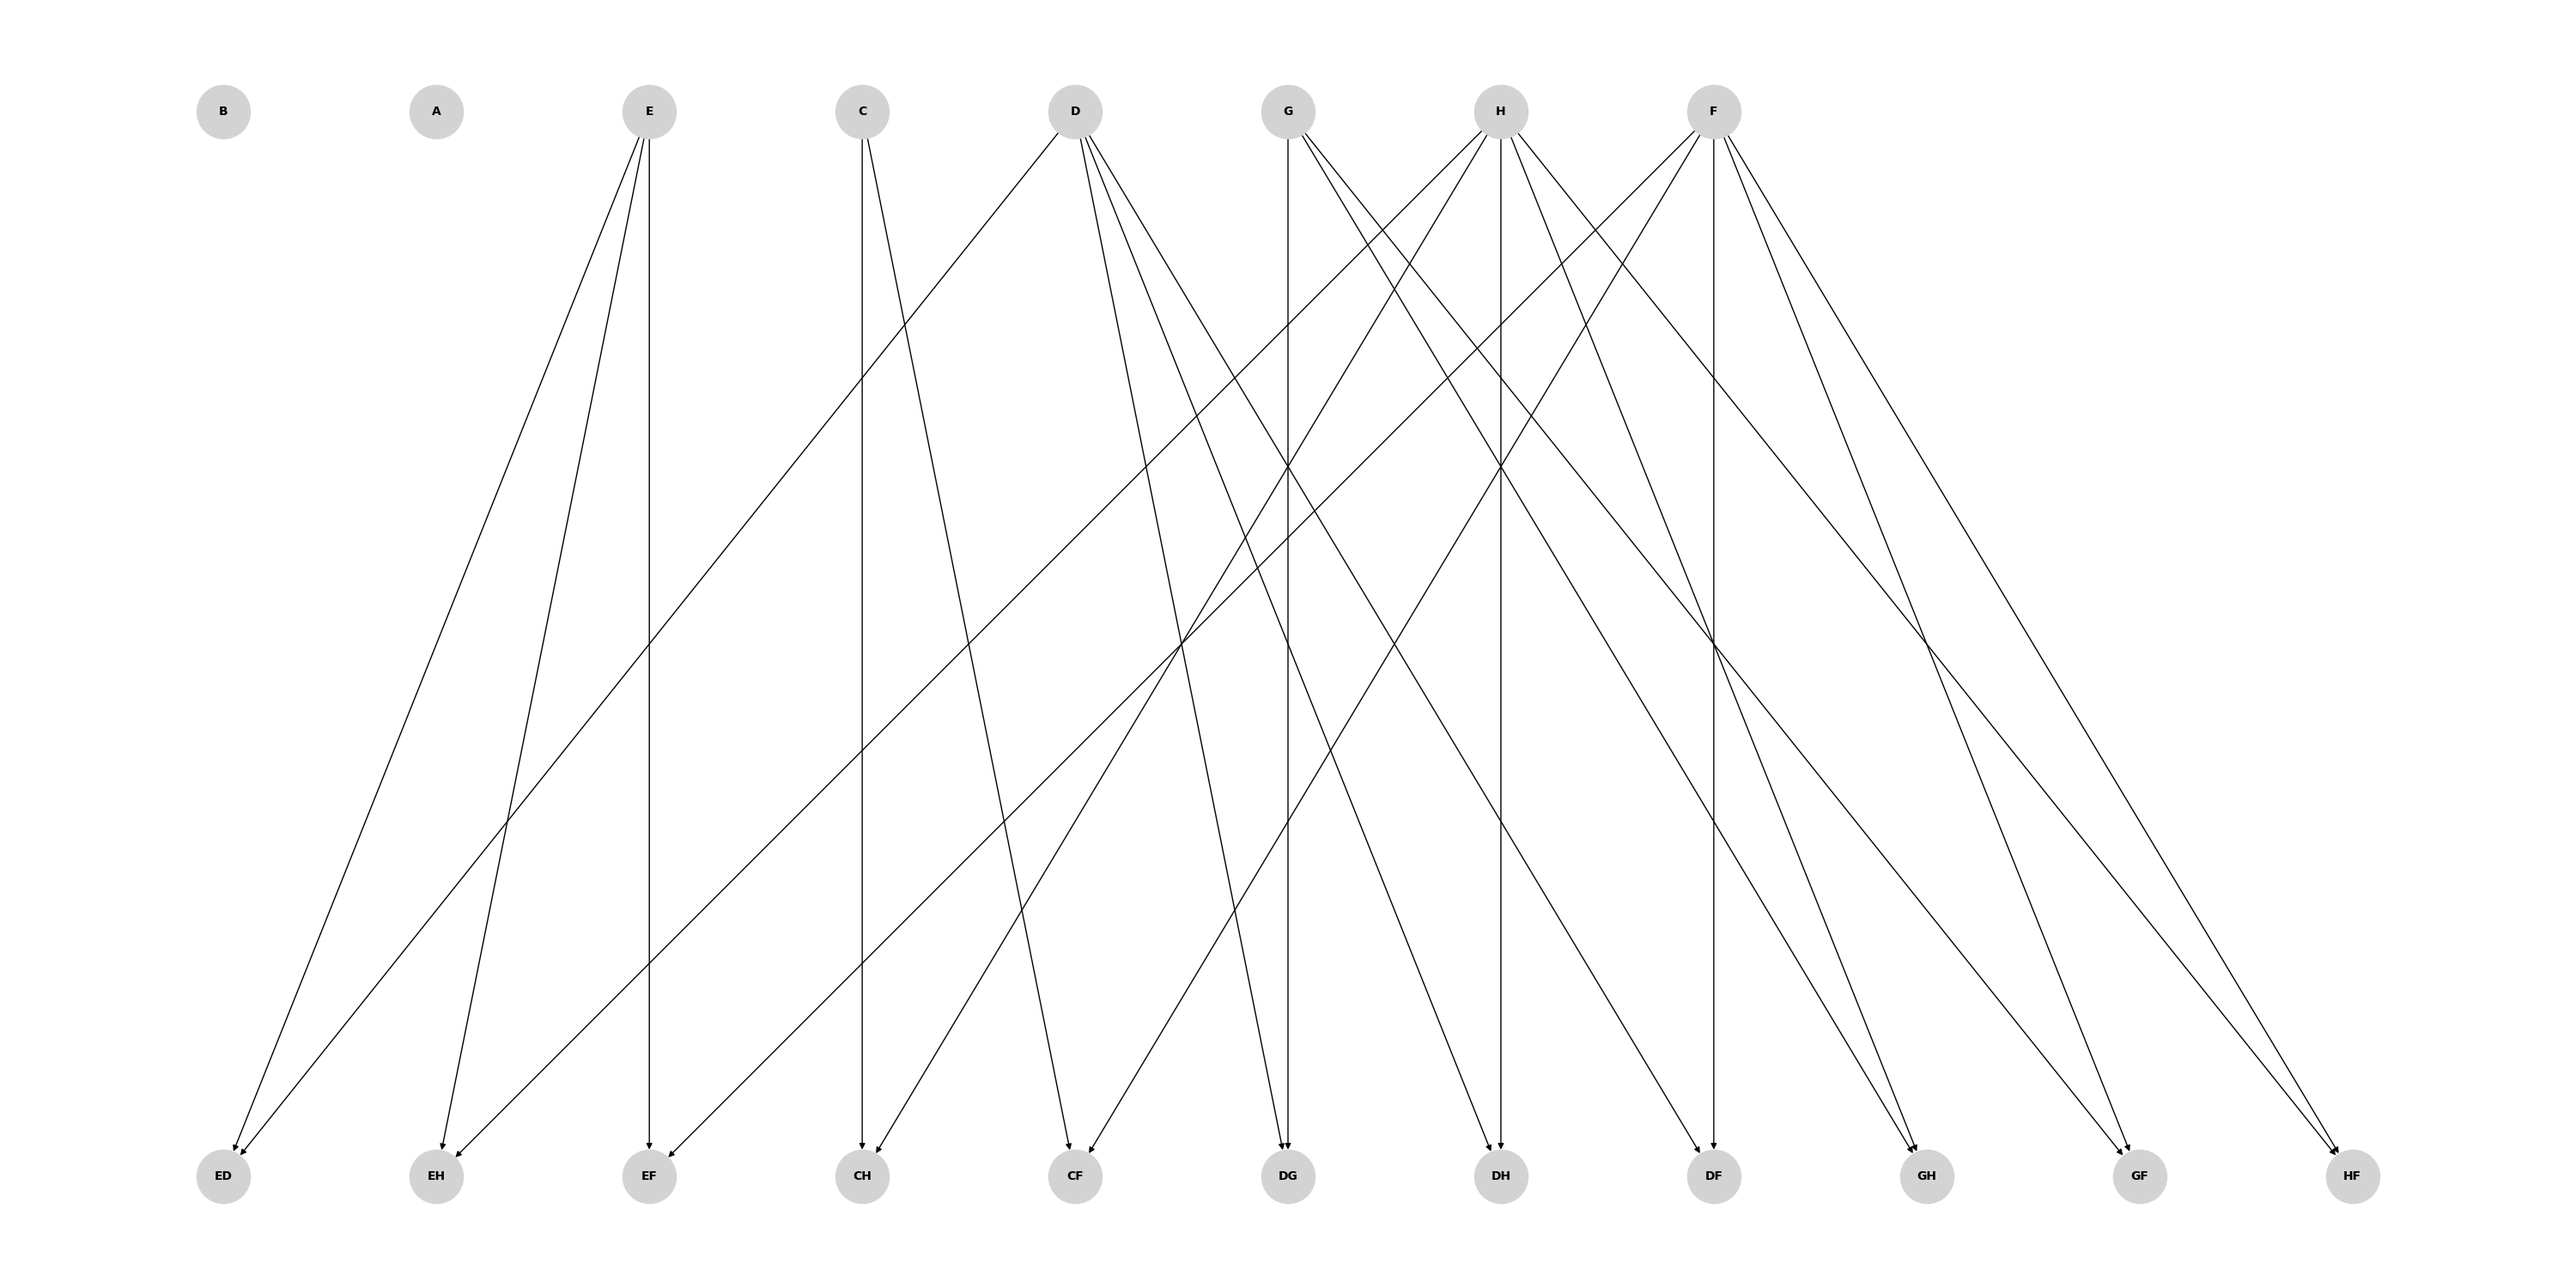
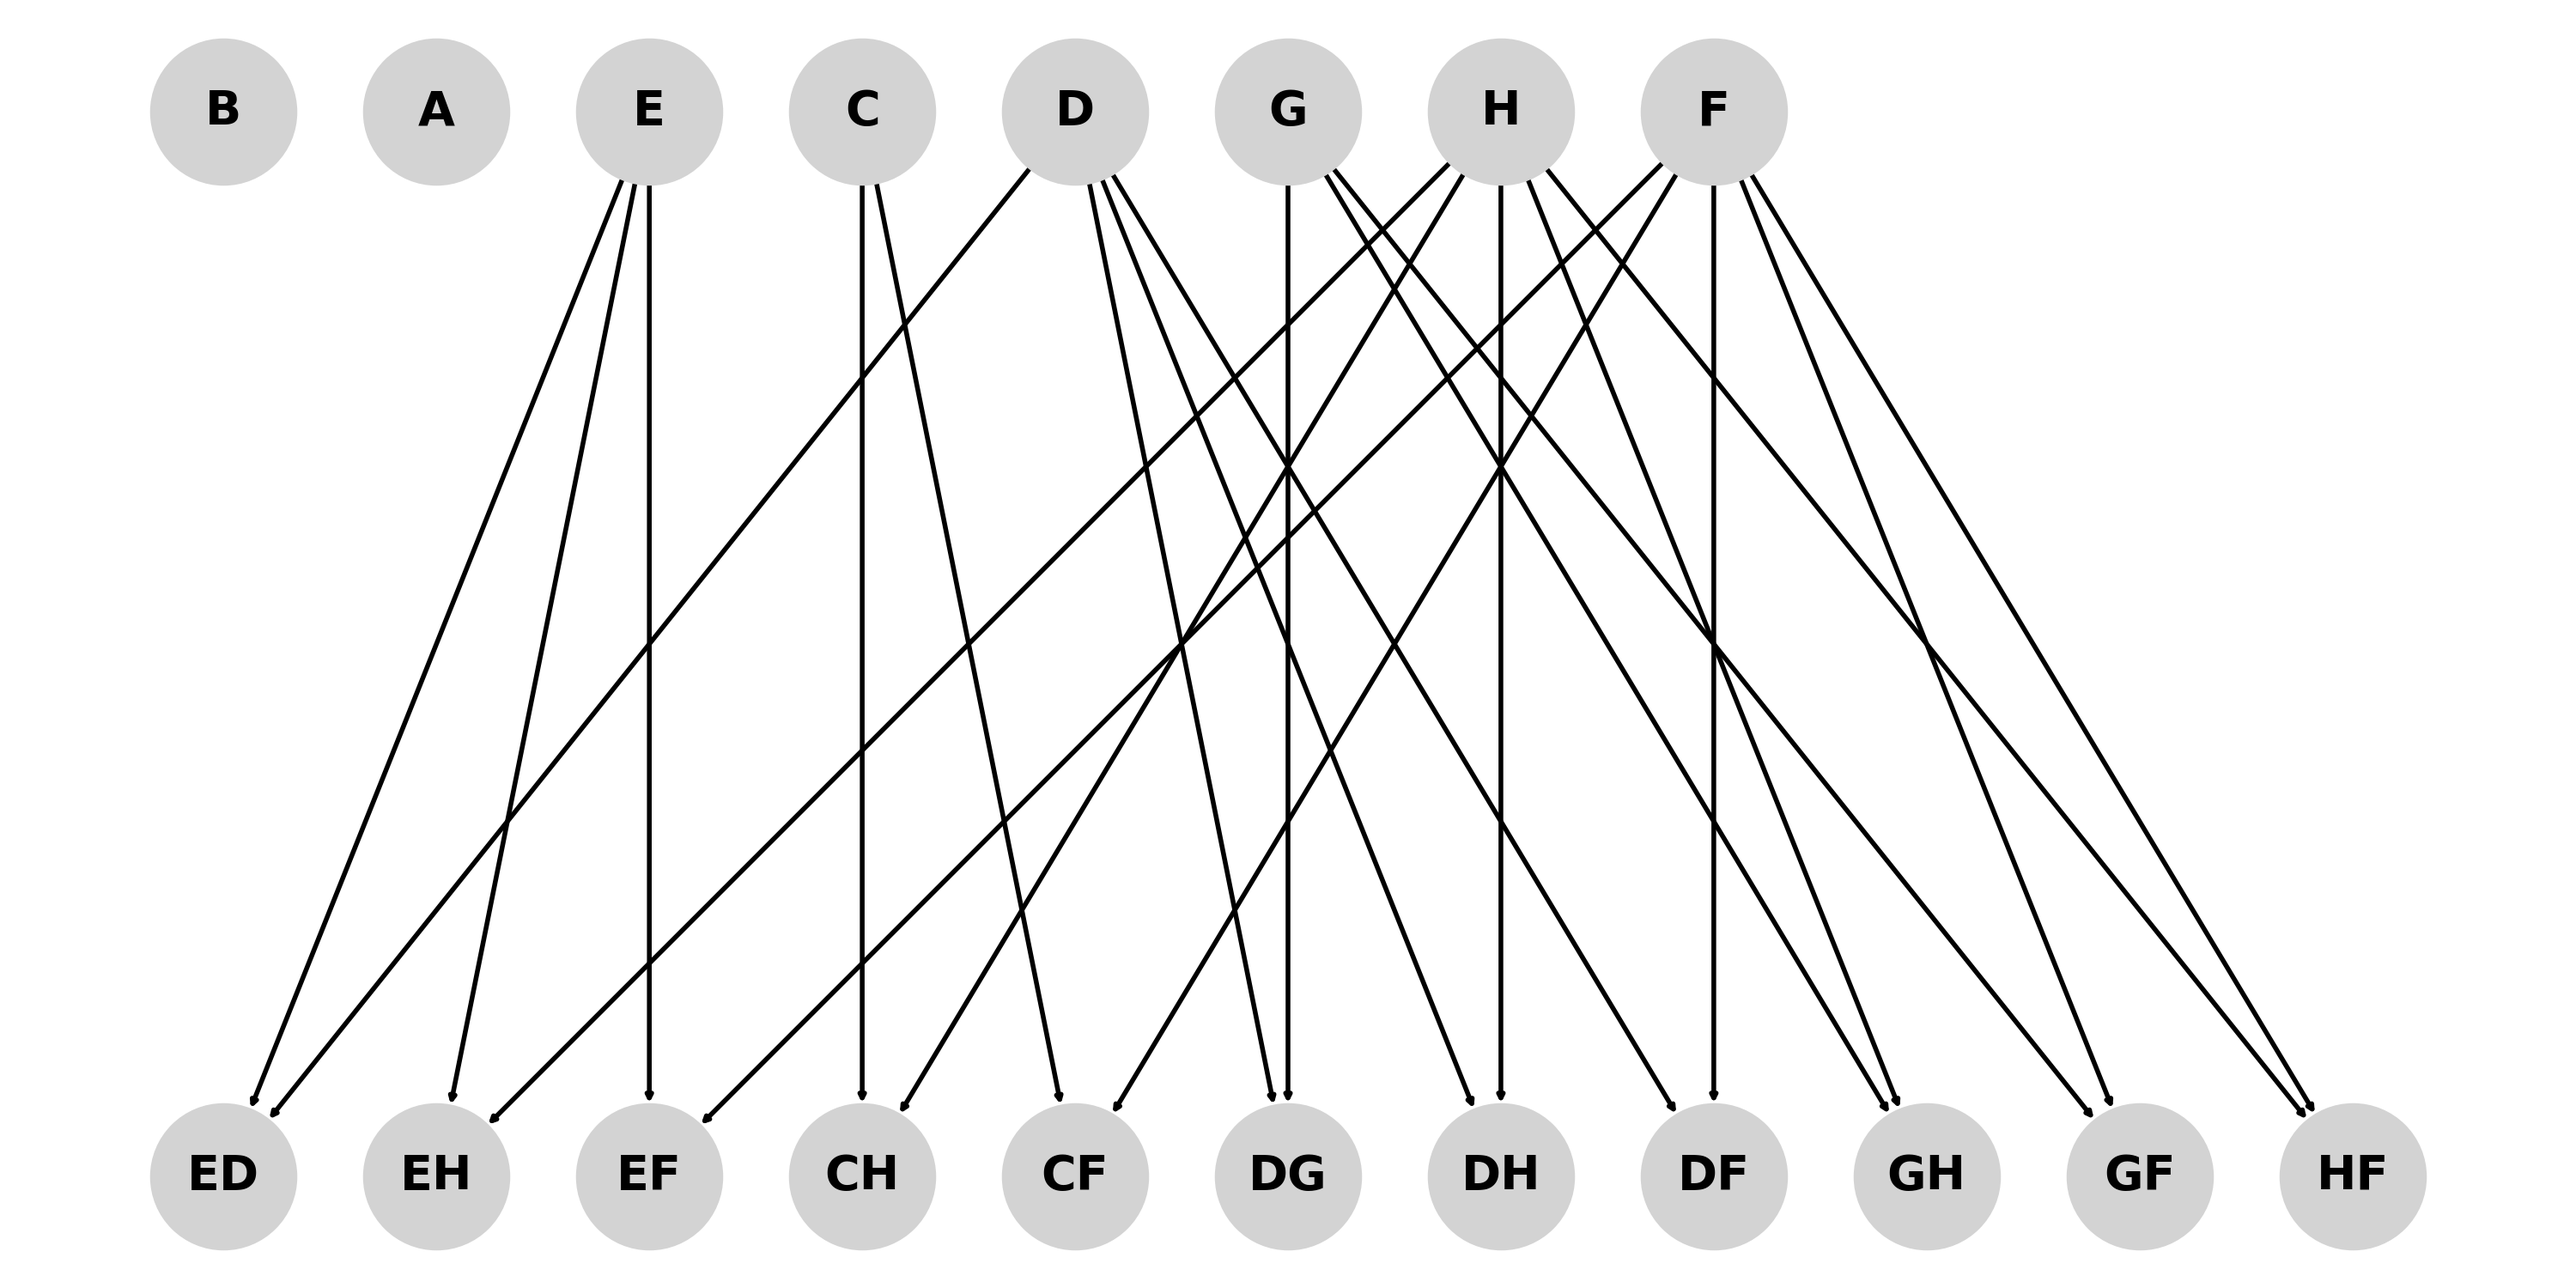
0930-GUIV2

diff --git a/src/main/java/gui/MainPage.java b/src/main/java/gui/MainPage.java
@@ -3,15 +3,23 @@ package gui;
 import javafx.application.Application;
 import javafx.fxml.FXMLLoader;
 import javafx.scene.Scene;
+import javafx.scene.image.Image;
+import javafx.scene.image.ImageView;
+import javafx.scene.layout.GridPane;
 import javafx.stage.Stage;
 
 import java.io.IOException;
+import java.nio.file.Files;
+import java.nio.file.Paths;
 
 public class MainPage extends Application {
     @Override
     public void start(Stage stage) throws IOException {
+        GridPane TheFirstGridPane = new GridPane();
         FXMLLoader fxmlLoader = new FXMLLoader(MainPage.class.getResource("MainPage.fxml"));
         Scene scene = new Scene(fxmlLoader.load(), 1920,1080);
+        TheFirstGridPane.prefWidthProperty().bind(scene.widthProperty());
+        TheFirstGridPane.prefHeightProperty().bind(scene.heightProperty());
         stage.setTitle("Earseable Pattern Mining");
         stage.setScene(scene);
         stage.show();

diff --git a/animation.py b/animation.py
@@ -111,7 +111,7 @@ for current_level in range ( 2, level + 1 ):
     G.add_edges_from(edges)
 
     plt.figure(figsize=(30, 15))
-    nx.draw(G, pos=positions, with_labels=True, labels=labels, node_size=2000, node_color='lightgrey', font_size=10, font_color='black', font_weight='bold')
+    nx.draw(G, pos=positions, with_labels=True, labels=labels, node_size=15000, node_color='lightgrey', font_size=40, font_color='black', font_weight='bold', width=4)
     plt.title("Graph Representation")
     output_file = "output_image_" + str(current_level-1) + ".png"
     png_file.append(output_file)

diff --git a/src/main/java/gui/MainPageController.java b/src/main/java/gui/MainPageController.java
@@ -48,4 +48,11 @@ public class MainPageController {
         Main.main();
         CallPythonScript.main();
     }
+
+    public void initialize() throws IOException {
+        // 加載圖片到 ImageView 中
+        String imagepath = "output_gif.gif";
+        Image image = new Image(Files.newInputStream(Paths.get(imagepath)));
+        AlogorithmAnimation.setImage(image);
+    }
 }

diff --git a/src/main/java/gui/CallPythonScript.java b/src/main/java/gui/CallPythonScript.java
@@ -12,7 +12,7 @@ public class CallPythonScript {
         try {
             // 建立 ProcessBuilder 並設定命令
             ProcessBuilder builder = new ProcessBuilder(
-                    "py", "animation.py"
+                    "python3", "animation.py"
             );
 
             // 開始進程
